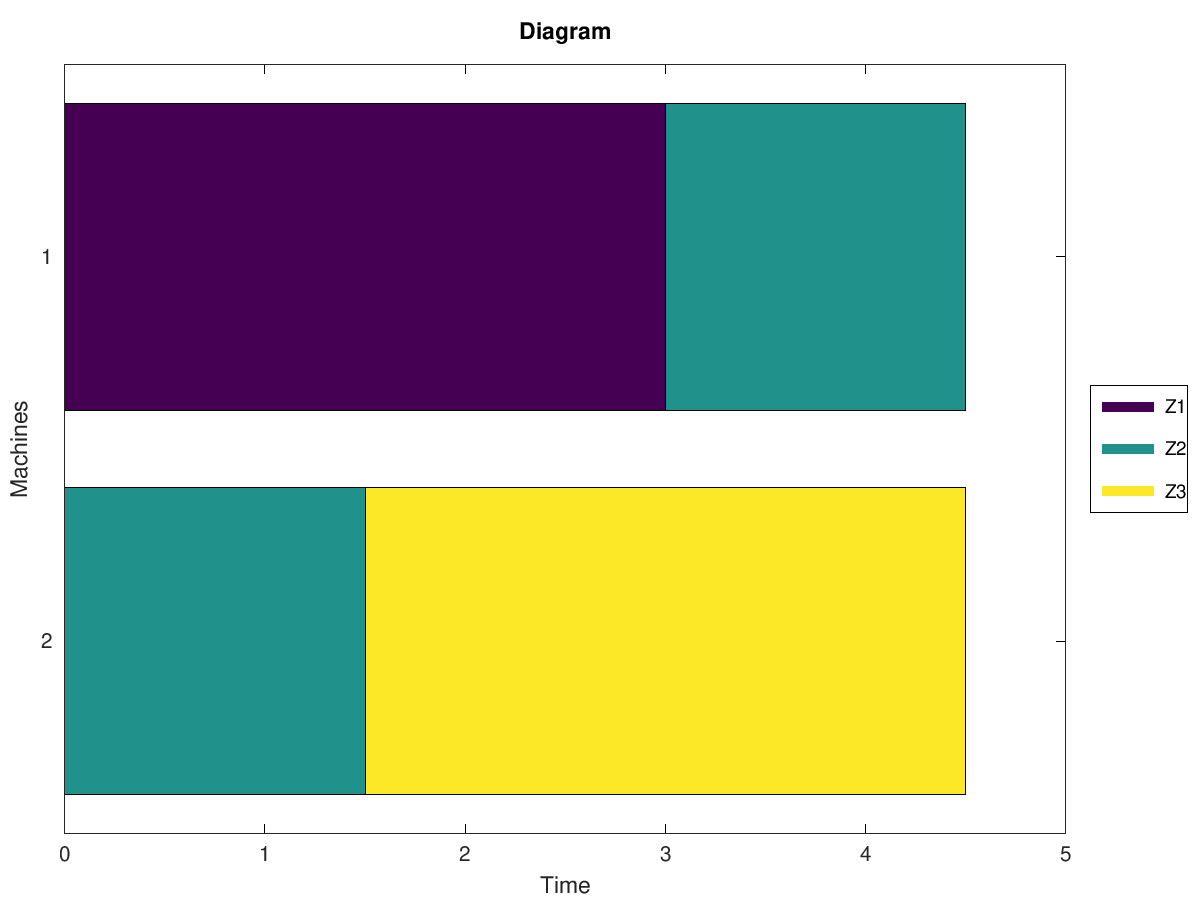
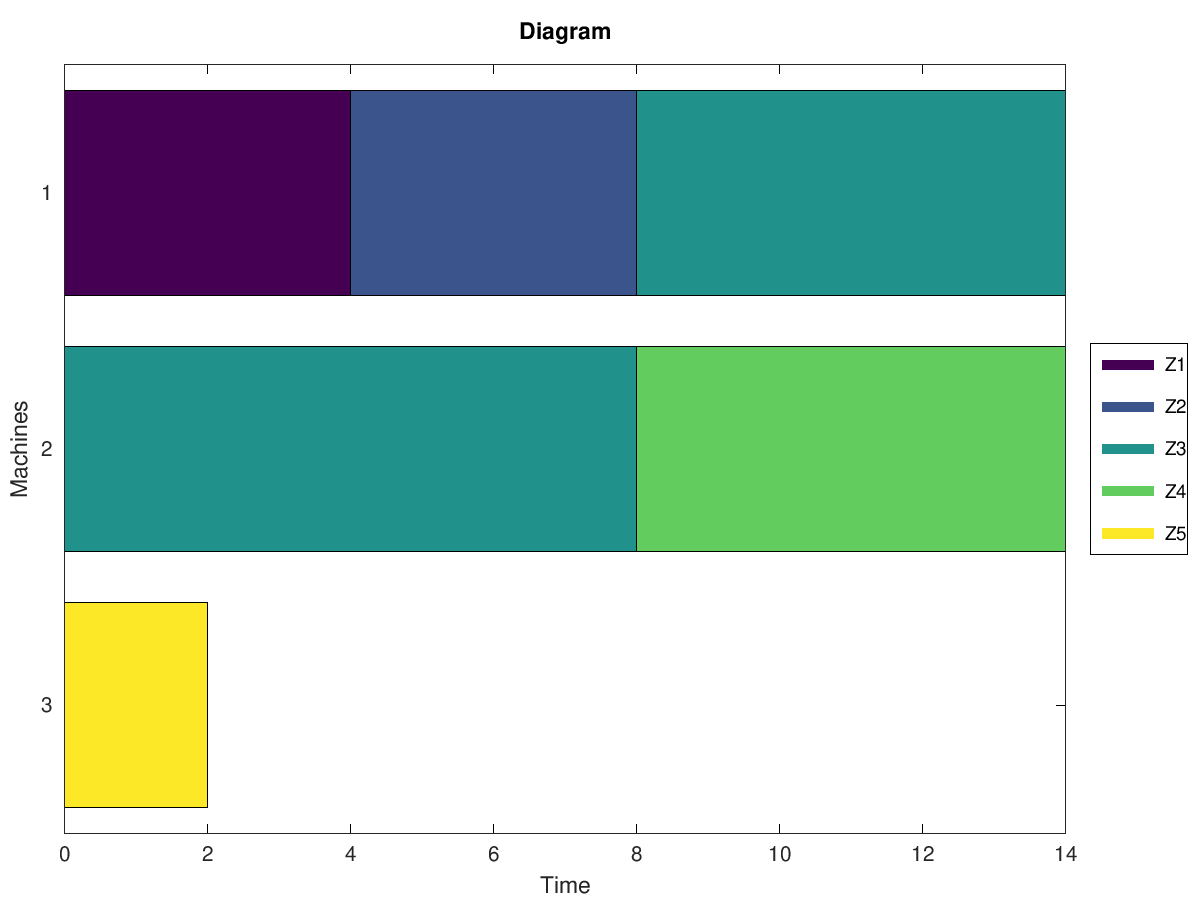
Well it is good enough. I am not gonna to change that

diff --git a/1/src/utils.c b/1/src/utils.c
@@ -10,7 +10,7 @@ double count_divided_sum_t (int *arr, int arr_length, int proc_num)
         sum += arr[i];
     }
 
-    //fprintf (stdout, "Sum = %d\n", sum);
+    fprintf (stdout, "Sum  divided= %d\n", sum/proc_num);
 
     return (double) sum/proc_num; 
 }
@@ -132,7 +132,7 @@ void optimization (double **matrix, double c_max, int *arr, int task_num, int pr
             if(j >= task_num)
             {
                 fprintf (stdout, "\n");
-                exit (0);
+                break;
             }
 
         }
@@ -183,7 +183,7 @@ void create_script (double **matrix, char *filename, int rows, int columns)
         fprintf (handler, "\"Z%d\",", i + 1);
     }
     fprintf (handler, " \"location\", \"eastoutside\");\n");
-    fprintf (handler, "print -dpng output/optimize_diagram.png;");
+    fprintf (handler, "print -dpng output/optimize_diagram.png;\nopen output/optimize_diagram.png;");
     fclose (handler);
 }
 
@@ -193,7 +193,7 @@ void run_script (char *filename)
     char *feh = (char *) malloc (128 * sizeof (char));
 
     sprintf(cmd, "octave %s", filename);
-    sprintf(feh, "feh output/optimize_diagram.png");
+    //sprintf(feh, "feh output/optimize_diagram.png");
 
     system (cmd);
     system (feh);

diff --git a/1/src/main.c b/1/src/main.c
@@ -35,13 +35,13 @@ int main ()
     
     prepare_matrix (&matrix, proc_num, task_num);
     zero_matrix (matrix, proc_num, task_num);
-    print_matrix (matrix, proc_num, task_num);
+    //print_matrix (matrix, proc_num, task_num);
     
     optimization (matrix, c_max, arr, task_num, proc_num);
     print_matrix (matrix, proc_num, task_num);
 
     create_script (matrix, filepath, proc_num, task_num);
-    // print_matrix (matrix, proc_num, task_num);
+    //print_matrix (matrix, proc_num, task_num);
     run_script (filepath);
 
     free_matrix (&matrix, proc_num);

diff --git a/1/src/script/plot_with_octave_script.m b/1/src/script/plot_with_octave_script.m
@@ -2,11 +2,12 @@ graphics_toolkit ("gnuplot");
 format long;
 output_precision = 1;
 
-d = [3.0,1.5,0.0;0.0,1.5,3.0];
+d = [4.0,4.0,6.0,0.0,0.0;0.0,0.0,8.0,6.0,0.0;0.0,0.0,0.0,0.0,2.0];
 barh (d, "stacked");
 set (gca (), "ydir", "reverse");
 xlabel ("Time");
 ylabel ("Machines");
 title ("Diagram");
-legend ({"Z1","Z2","Z3"}, "location", "eastoutside");
+legend ({"Z1","Z2","Z3","Z4","Z5"}, "location", "eastoutside");
 print -dpng output/optimize_diagram.png;
+open output/optimize_diagram.png;
